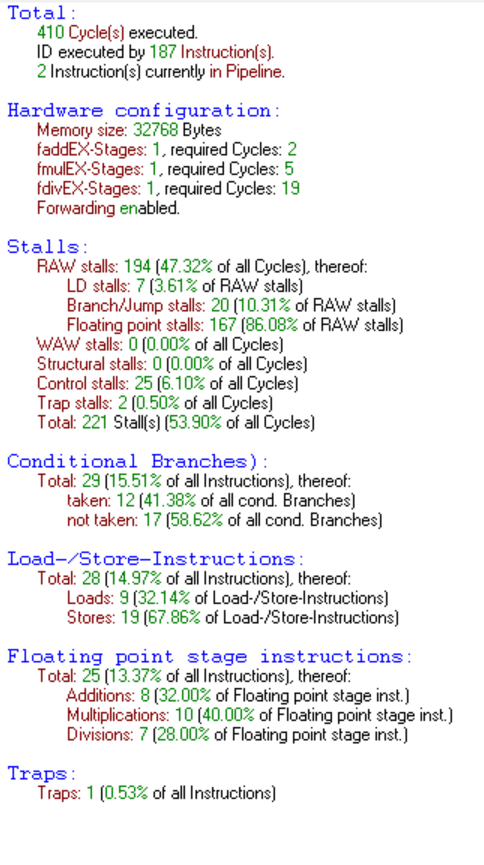
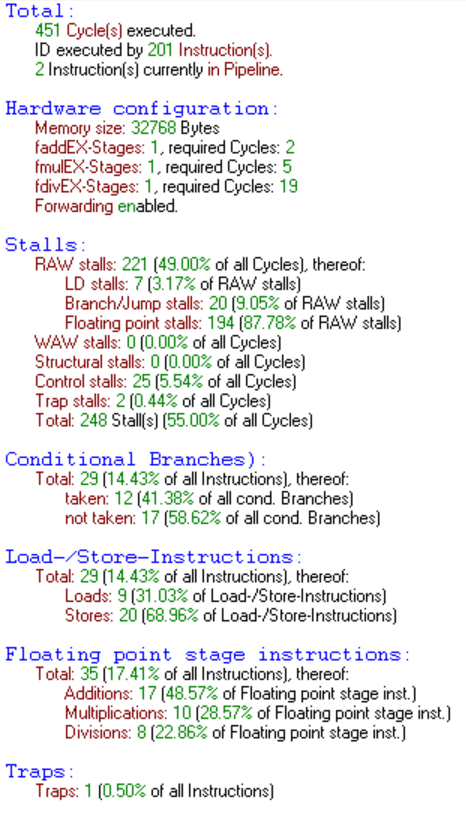
303 ciclos Stalls Total 152

Changed region(s): [[0.0, 0.1246, 0.9914, 0.9653], [0.0, 0.0, 0.6009, 0.0934]]

diff --git a/README.md b/README.md
@@ -4,8 +4,51 @@
 
 #### 97
 
+_Tamaño secuencia:_ 119
+
+_Secuencia:_
+
+_Suma Secuencia:_
+
+**vT** = _secuencia_tamanho_ = 7
+**vIni** = _valor_inicial_ = 10
+**vMax** = _secuencia_maximo_ = 16
+**vMed** = _secuencia_valor_medio_ = 6,571428 -> 6,57143
+**lista** = [ vIni* vT, vMax*vT, vMed*vT, (vIni/vMax)*vT, (vIni/vMed)*vT, (vMax/vIni)*vT,
+(vMax/vMed)*vT, (vMed/vIni)*vT, vMed/vMax)*vT ]
+vIni*vT = 70
+vMax*vT = 112
+vMed*vT = 46
+(vIni/vMax)*vT = 4,375
+(vIni/vMed)*vT = 10,65217159 -> 10,6522
+(vMax/vIni)*vT = 11,2
+(vMax/vMed)*vT = 17,0435
+(vMed/vIni)*vT = 4,6
+(vMed/vMax)*vT = 2,875
 
 #### 66
+
+_Tamaño secuencia:_ 
+
+_Secuencia:_
+
+_Suma Secuencia:_
+
+**vT** = _secuencia_tamanho_ = 
+**vIni** = _valor_inicial_ = 
+**vMax** = _secuencia_maximo_ = 
+**vMed** = _secuencia_valor_medio_ = 
+**lista** = [ vIni* vT, vMax*vT, vMed*vT, (vIni/vMax)*vT, (vIni/vMed)*vT, (vMax/vIni)*vT,
+(vMax/vMed)*vT, (vMed/vIni)*vT, vMed/vMax)*vT ]
+vIni*vT = 
+vMax*vT = 
+vMed*vT = 
+(vIni/vMax)*vT = 
+(vIni/vMed)*vT = 
+(vMax/vIni)*vT = 
+(vMax/vMed)*vT = 
+(vMed/vIni)*vT = 
+(vMed/vMax)*vT = 
 
 
 #### 10 
@@ -20,15 +63,29 @@ _Suma secuencia:_ 46
 **vIni** = _valor_inicial_ = 10
 **vMax** = _secuencia_maximo_ = 16
 **vMed** = _secuencia_valor_medio_ = 6,571428 -> 6,57143
-**lista** = [ vIni* vT, vMax*vT, vMed*vT, (vIni/vMax)*vT, (vIni/vMed)*vT, (vMax/vIni)*vT,
-(vMax/vMed)*vT, (vMed/vIni)*vT, vMed/vMax)*vT ]
-vIni*vT=70
-vMax*vT=112
-vMed*vT=46
-(vIni/vMax)*vT=4,375
-(vIni/vMed)*vT=10,6522
-(vMax/vIni)*vT=11,2
-(vMax/vMed)*vT=17,0435
-(vMed/vIni)*vT=4,6
-(vMed/vMax)*vT=2,875
+**lista** = [ vIni * vT, vMax * vT, vMed * vT, (vIni / vMax) * vT, (vIni / vMed) * vT, (vMax / vIni) * vT,
+(vMax / vMed) * vT, (vMed / vIni) * vT, vMed / vMax) * vT ]
+vIni * vT = 70
+vMax * vT = 112
+vMed * vT = 46
+(vIni /vMax) * vT = 4,375
+(vIni /vMed) * vT = 10,65217159 -> 10,6522
+(vMax / vIni) * vT = 11,2
+(vMax / vMed) * vT = 17,0435
+(vMed / vIni) * vT = 4,6
+(vMed / vMax) * vT = 2,875
 
+Estadisticas | VersionNoOptimizada | VersionOptimizada
+:---------:|:----------:|:---------:
+ Ciclos | 447 | b1
+ RAW Stalls | 221 = 49.44% of all Cycles| b2
+ LD Stalls | 7 = 3.17% of RAW Stalls| b3
+ Branch/Jump Stalls | 20 = 9.05% of RAW Stalls| b4
+ Floating Point Stalls | 194 = 87.78% of RAW Stalls| b5
+ WAW Stalls | 0 = 0.0% of all cycles| b6
+ Structural Stalls | 0 = 0.0% of all cycles| b7
+ Control Stalls | 25 = 5.59% of all cycles| b8
+ Trap Stalls | 2 = 0.45% of all cycles| b9
+ Total | 248 Stalls = 55.48% of all cycles | b10
+
+ De estos datos podemos ver que donde más ciclos gastamos es en las operaciones floats
